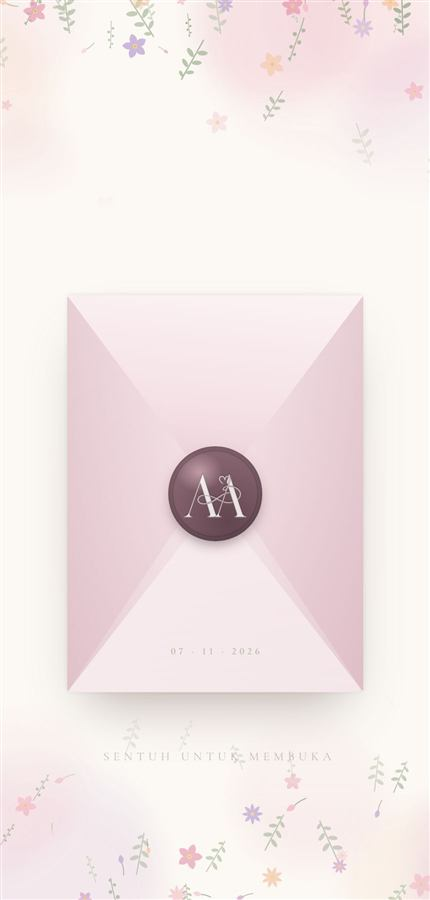
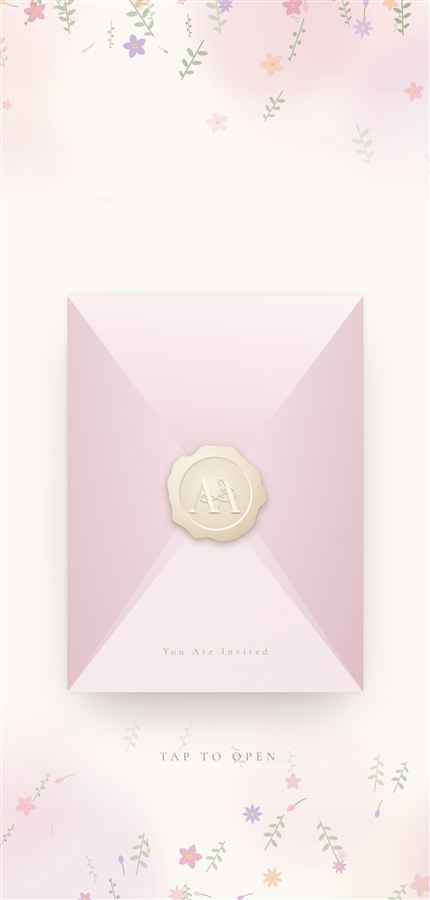
Replace the mauve seal with a cream wax seal, monogram embossed
The stamp is now drawn as real sealing wax: a cream body with an uneven,
melted edge (ten soft lobes whose depth varies round the rim, plus a slower
wobble), a recessed disc where the stamp came down, and the couple's
monogram raised out of it in the wax's own colour -- visible only through
a light edge above-left and a shadow below-right. Slightly larger so the
relief reads. It still fades on the tap.

Replaces the seal-face, seal-half, seal-gloss and seal-rim layers and their
rules. The stamp guide documents the new structure with tested burgundy
and gold alternatives.

Changed region(s): [[0.393, 0.4978, 0.6349, 0.6222]]

diff --git a/index.html b/index.html
@@ -432,7 +432,7 @@
   .gate{
     --ew:min(72vw, 296px, calc(40 * var(--vh)));
     --eh:calc(var(--ew) * 1.34);
-    --seal:clamp(78px, calc(var(--ew) * .32), 104px);
+    --seal:clamp(86px, calc(var(--ew) * .36), 112px);
     position:fixed; inset:0; z-index:50;
     display:flex; flex-direction:column; align-items:center; justify-content:center;
     padding-top:calc(18 * var(--vh));        /* sit low: flap and letter rise above */
@@ -549,50 +549,30 @@
   .opening .flap{transform:rotateX(-172deg); filter:none;}
   .flap-behind{z-index:0 !important;}
 
-  /* ---- the wax stamp, pressed with the monogram ---- */
+  /* ---- the wax stamp: cream wax, the monogram embossed in relief ---- */
   .seal{
     position:absolute; z-index:6;
     left:50%; top:50%;
-    width:var(--seal); height:var(--seal);
+    width:var(--seal); height:var(--seal);   /* both axes: no aspect-ratio (Safari 14) */
     margin:calc(var(--seal) / -2) 0 0 calc(var(--seal) / -2);
     display:block;
+    transition:opacity .6s ease;             /* the tap simply fades the seal away */
   }
-  .seal > span{position:absolute; display:block; border-radius:50%;}
-  .seal-rim{              /* the wax that spread past the stamp */
-    inset:-9%;
-    border-radius:48% 52% 51% 49% / 50% 47% 53% 50% !important;
-    background:radial-gradient(closest-side, rgba(128,94,104,.5), rgba(128,94,104,0) 76%);
-    transition:opacity .45s ease;
+  .seal-wax{
+    position:absolute; inset:0; width:100%; height:100%; overflow:visible;
+    filter:drop-shadow(0 3px 4px rgba(90,62,40,.28)) drop-shadow(0 1px 1px rgba(90,62,40,.25));
   }
-  .seal-face, .seal-half{
-    inset:0;
-    background:
-      radial-gradient(40% 34% at 33% 27%, rgba(201,165,175,.85) 0%, rgba(201,165,175,0) 62%),
-      radial-gradient(118% 118% at 64% 80%, #624550 0%, #876570 60%);
-    box-shadow:
-      0 6px 12px -3px rgba(80,50,60,.5),
-      inset 0 0 0 4px rgba(255,255,255,.07),
-      inset 0 0 0 5px rgba(60,35,45,.28),
-      inset 0 -3px 6px rgba(40,20,28,.35);
+  /* the monogram in the wax's own colour, raised: a light edge above-left and
+     a shadow below-right are all that make it visible, as on a real seal */
+  .seal-mark{
+    position:absolute; left:50%; top:50%;
+    width:50%; height:auto; max-width:none;
+    transform:translate(-50%, -48%);
+    filter:brightness(0) invert(.9) sepia(.32)
+           drop-shadow(-.6px -.6px 0 rgba(255,253,245,.95))
+           drop-shadow(.8px 1px .4px rgba(112,86,58,.55));
   }
-  /* the monogram, pressed in: pale, with a light and shadow edge */
-  .seal img{
-    position:absolute; left:50%; top:52%;
-    width:68%; height:auto; max-width:none;
-    transform:translate(-50%, -50%);
-    filter:brightness(0) invert(1) sepia(.18)
-           drop-shadow(0 -1px 0 rgba(58,32,42,.55))
-           drop-shadow(0 1px 0 rgba(255,255,255,.18));
-    opacity:.88;
-  }
-  /* while sealed only the whole face shows; the halves exist for the crack */
-  .seal-half{opacity:0;}
-  .seal-half.l{clip-path:polygon(0 0, 50% 0, 50% 100%, 0 100%);}
-  .seal-half.r{clip-path:polygon(50% 0, 100% 0, 100% 100%, 50% 100%);}
-  /* the tap simply fades the seal away */
-  .seal-face{transition:opacity .6s ease;}
-  .broken .seal-face{opacity:0;}
-  .broken .seal-rim{opacity:0;}
+  .broken .seal{opacity:0; pointer-events:none;}
 
   .lifted .letter{transform:translateY(-52%);}
 
@@ -616,7 +596,6 @@
 
   /* reduced motion: the seal, flap and letter fade rather than move */
   @media (prefers-reduced-motion:reduce){
-    .seal-face{transition:opacity .5s ease;}
     .flap{transition:opacity .6s ease;}
     .opening .flap{transform:none; opacity:0;}
     .lifted .letter{transform:none;}
@@ -712,7 +691,7 @@
 
 <!-- ============================================================
      The envelope. A portrait envelope sealed at its centre with a
-     wax stamp pressed with the monogram. Tapping cracks the seal,
+     wax stamp pressed with the monogram. Tapping fades the seal,
      opens the flap, lifts the letter, then dissolves into the page.
      ============================================================ -->
 <div class="gate" id="gate" role="button" tabindex="0" aria-label="Buka jemputan">
@@ -737,12 +716,29 @@
 
     <div class="flap-hold" id="flapHold"><div class="flap"></div></div>
 
-    <!-- the stamp: one whole face while sealed; two halves for the crack -->
+    <!-- the stamp: cream wax with the monogram embossed in it -->
     <span class="seal" aria-hidden="true">
-      <span class="seal-rim"></span>
-      <span class="seal-face"><img src="logo.png" alt=""></span>
-      <span class="seal-half l"><img src="logo.png" alt=""></span>
-      <span class="seal-half r"><img src="logo.png" alt=""></span>
+      <!-- the wax: an irregular pressed blob, a recessed disc where the stamp
+           came down, and the monogram raised out of it -->
+      <svg class="seal-wax" viewBox="0 0 100 100">
+        <defs>
+          <radialGradient id="waxBody" cx="36%" cy="30%" r="78%">
+            <stop offset="0%"   stop-color="#FCF8EF"/>
+            <stop offset="55%"  stop-color="#EFE5D2"/>
+            <stop offset="100%" stop-color="#D8C6A8"/>
+          </radialGradient>
+          <radialGradient id="waxPress" cx="44%" cy="40%" r="62%">
+            <stop offset="0%"   stop-color="#F6EFE2"/>
+            <stop offset="100%" stop-color="#E6D9C2"/>
+          </radialGradient>
+        </defs>
+        <path d="M97.12 50.00 C97.52 51.64 98.35 53.45 98.04 55.05 C97.73 56.65 96.43 58.24 95.26 59.62 C94.10 61.00 92.05 62.03 91.05 63.34 C90.06 64.65 89.84 66.08 89.29 67.49 C88.75 68.91 88.20 70.27 87.79 71.82 C87.39 73.37 87.44 75.27 86.88 76.80 C86.33 78.33 85.44 79.75 84.45 81.02 C83.46 82.28 82.19 83.34 80.94 84.37 C79.70 85.39 78.32 86.23 77.00 87.17 C75.69 88.10 74.39 89.01 73.07 89.96 C71.75 90.91 70.56 92.23 69.09 92.87 C67.61 93.51 65.82 93.47 64.23 93.79 C62.63 94.11 61.11 94.62 59.52 94.78 C57.93 94.95 56.29 94.94 54.71 94.77 C53.12 94.60 51.52 94.27 50.00 93.77 C48.48 93.26 47.06 92.21 45.61 91.73 C44.16 91.26 42.82 90.94 41.30 90.92 C39.78 90.90 38.14 91.44 36.48 91.60 C34.83 91.76 32.87 92.28 31.35 91.89 C29.83 91.50 28.52 90.33 27.34 89.24 C26.17 88.15 25.35 86.56 24.31 85.35 C23.28 84.15 22.36 82.99 21.15 82.04 C19.94 81.09 18.49 80.47 17.05 79.67 C15.61 78.87 13.81 78.26 12.50 77.24 C11.20 76.22 9.73 75.08 9.20 73.56 C8.67 72.03 9.36 69.81 9.35 68.10 C9.33 66.39 9.36 64.81 9.12 63.28 C8.89 61.76 8.38 60.39 7.94 58.94 C7.49 57.49 6.73 56.07 6.44 54.58 C6.14 53.09 6.38 51.55 6.17 50.00 C5.97 48.45 5.45 46.90 5.20 45.29 C4.94 43.68 4.53 41.96 4.64 40.36 C4.75 38.75 5.31 37.17 5.84 35.65 C6.38 34.13 7.31 32.78 7.87 31.24 C8.44 29.71 8.71 28.06 9.23 26.46 C9.75 24.87 10.11 23.06 11.00 21.67 C11.90 20.28 13.33 19.21 14.60 18.12 C15.87 17.04 16.96 15.67 18.64 15.17 C20.31 14.66 22.94 15.40 24.64 15.09 C26.34 14.78 27.54 14.11 28.83 13.33 C30.12 12.54 31.20 11.54 32.36 10.38 C33.52 9.22 34.48 7.30 35.82 6.34 C37.15 5.39 38.79 4.90 40.36 4.64 C41.93 4.38 43.64 4.72 45.25 4.81 C46.86 4.89 48.43 5.05 50.00 5.15 C51.57 5.24 53.11 5.31 54.69 5.37 C56.27 5.42 57.86 5.38 59.47 5.46 C61.08 5.54 62.83 5.38 64.34 5.86 C65.86 6.34 67.27 7.33 68.55 8.33 C69.83 9.34 70.91 10.71 72.01 11.87 C73.12 13.04 74.09 14.28 75.19 15.33 C76.29 16.39 77.59 17.14 78.61 18.23 C79.63 19.31 80.12 20.85 81.29 21.83 C82.46 22.81 84.33 23.18 85.62 24.12 C86.91 25.06 88.12 26.20 89.04 27.46 C89.97 28.72 90.50 30.24 91.17 31.67 C91.84 33.10 92.75 34.48 93.05 36.01 C93.35 37.55 92.54 39.33 92.97 40.87 C93.41 42.40 94.96 43.68 95.65 45.20 C96.34 46.72 96.72 48.36 97.12 50.00Z" fill="url(#waxBody)"/>
+        <!-- the pressed disc: shadow on its upper-left wall, light on its lower-right -->
+        <circle cx="49.2" cy="48.9" r="33.6" fill="#C9B593" opacity=".55"/>
+        <circle cx="50.8" cy="51.2" r="33.6" fill="#FFFDF7" opacity=".9"/>
+        <circle cx="50"   cy="50"   r="33"   fill="url(#waxPress)"/>
+      </svg>
+      <img class="seal-mark" src="logo.png" alt="">
     </span>
   </div>
 

diff --git a/docs/01-envelope-stamp.md b/docs/01-envelope-stamp.md
@@ -49,29 +49,42 @@ The letter fills itself from the `INVITE` block (`majlis`, `nama1`, `nama2`,
 |---|---|---|
 | Envelope width | `--ew` on `.gate` | `min(72vw, 296px, 40svh)` |
 | Envelope proportion | `--eh` on `.gate` | `--ew × 1.34` (portrait) |
-| Seal size | `--seal` on `.gate` | `clamp(78px, --ew × .32, 104px)` |
-| Wax colour | `.seal-face, .seal-half` background | `#624550` → `#876570`, mauve |
-| Monogram on the wax | `.seal img` — `width`, `filter`, `opacity` | 68 % wide, pale cream, embossed |
+| Seal size | `--seal` on `.gate` | `clamp(86px, --ew × .36, 112px)` |
+| Wax colour | the `waxBody` and `waxPress` gradients in the seal's `<svg>` | cream, `#FCF8EF` → `#D8C6A8` |
+| Embossed monogram | `.seal-mark` — `width`, `filter` | 50 % wide, wax-coloured, in relief |
 | How far the letter rises | `.lifted .letter` | `translateY(-52%)` |
 | Date on the envelope | `.env-date` text in the markup | `07 · 11 · 2026` |
 | Timing | the `setTimeout` delays in `openEnvelope()` | see table above |
 
 ### Changing the wax colour
 
-The seal has three shades. Keep them in the same family, darkest last:
+The seal is an `<svg>` in the markup (search `class="seal-wax"`). Its colour
+comes from two gradients — the wax body and the pressed disc — plus the
+monogram's filter. Keep all three in one family:
 
-```css
-radial-gradient(40% 34% at 33% 27%, rgba(201,165,175,.85) 0%, rgba(201,165,175,0) 62%),  /* shine */
-radial-gradient(118% 118% at 64% 80%, #624550 0%, #876570 60%);                          /* body  */
-```
+| Wax | `waxBody` stops | `waxPress` stops | `.seal-mark` filter start |
+|---|---|---|---|
+| Cream *(current)* | `#FCF8EF` · `#EFE5D2` · `#D8C6A8` | `#F6EFE2` · `#E6D9C2` | `invert(.9) sepia(.32)` |
+| Burgundy | `#B4454F` · `#8E2733` · `#5E1620` | `#9C3440` · `#7A1F2A` | `invert(.55) sepia(.4) hue-rotate(-20deg) saturate(2)` |
+| Gold | `#F3DE9E` · `#D8B560` · `#A8843A` | `#E4C77C` · `#C9A450` | `invert(.8) sepia(.7) saturate(1.6)` |
 
-For a classic red wax: shine `rgba(214,120,138,.85)`, body `#792336` → `#9E3348`.
+The two small circles just before the pressed disc are its shadow (upper
+left) and highlight (lower right). On a dark wax, tone the highlight down —
+for burgundy set it to `fill="#E8A0A8" opacity=".5"` — or it shows as a bright
+ring. On burgundy the monogram reads as a pale rose-gold relief rather than
+wax-coloured; that is the effect of the filter above, and it looks intended.
 
 ## How it works
 
-- **The monogram on the wax** is the same `logo.png`, turned pale with
-  `filter: brightness(0) invert(1) sepia(.18)` and given a dark edge above and a
-  light edge below with two `drop-shadow`s. That's what makes it look pressed in.
+- **The seal is drawn, not a photo.** The wavy outline is an SVG path
+  generated once — ten soft lobes whose depth varies round the edge, plus a
+  slower wobble — so it looks like melted wax rather than a stamped badge. A
+  recessed disc sits in the middle, with a shadow on its upper-left wall and
+  light on its lower-right.
+- **The embossed monogram** is the same `logo.png`, turned wax-coloured with
+  `brightness(0) invert(.9) sepia(.32)`, then given a light edge above-left and
+  a shadow below-right with two `drop-shadow`s. Nothing but that light and
+  shadow makes it visible — exactly how a real seal's relief reads.
 - **The seal fades.** On the tap `.broken` is added and the seal face's
   opacity transitions to 0 over 0.6 s (`.seal-face{transition:opacity .6s ease}`).
   Change `.6s` to make it quicker or slower. The flap starts opening at 620 ms,
